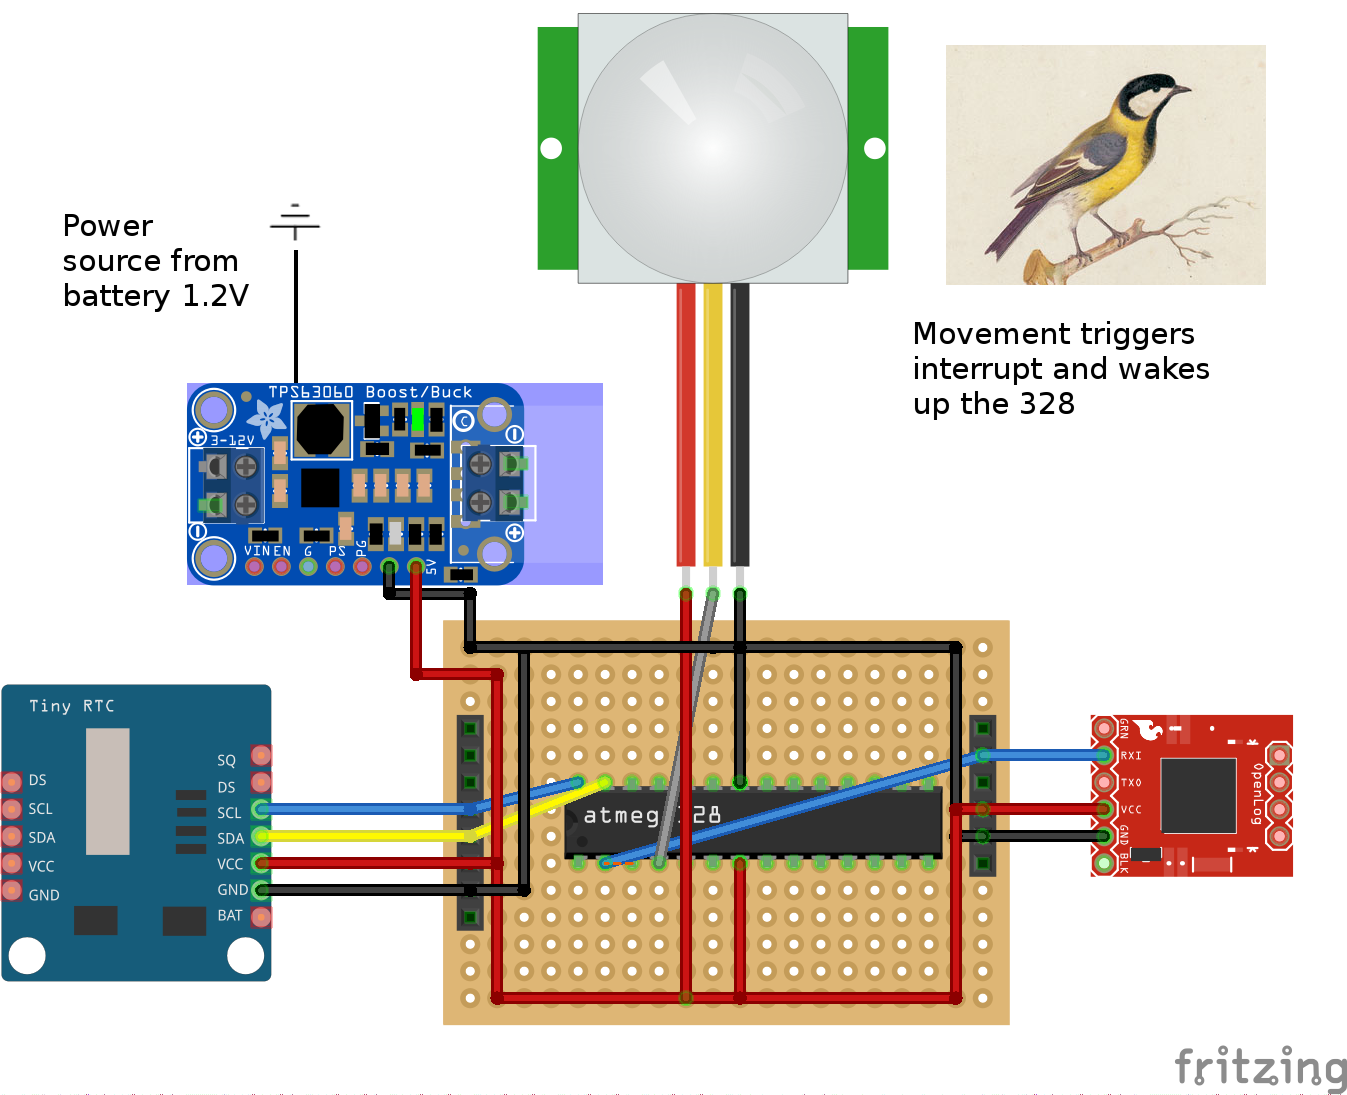
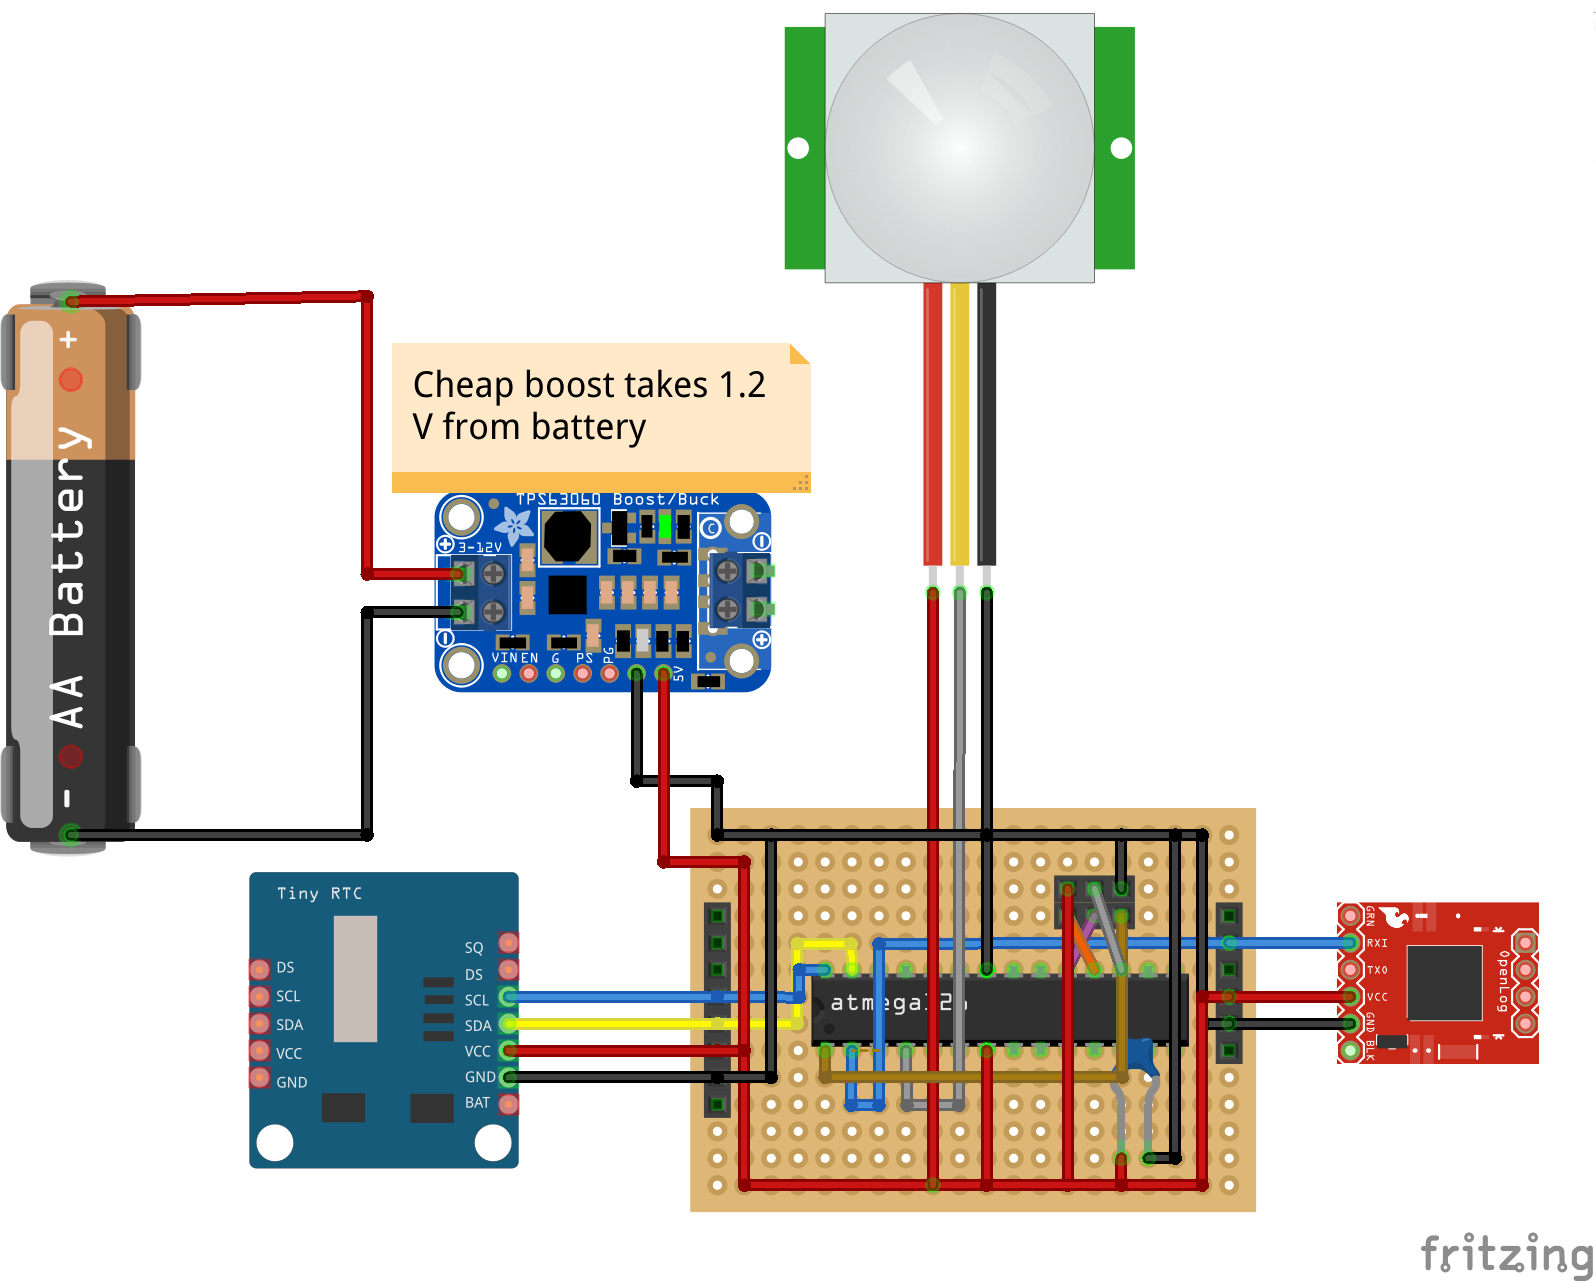
ICSP, decoupling and more parts

diff --git a/README.md b/README.md
@@ -5,12 +5,21 @@
 Writing a database over multi week time frames. Timestamped entries are written by wild bird's setting off an metal
 touch sensor.
 
-###Required hardware hacks
+###Hardware hacks
 
-####Connect to power source
+####Parasitic casing and power source
 
 Gut the solar LED lamp and solder a connector for easy access from the step up converter to 5V.
 As the sensors utilize 5V I keep the power on two separate rails on my perfboard.
+
+####Connector on base board
+
+The OpenLog and TinyRTC modules are plugged directly from their female header into a male socket. This puts stability
+and reduces cable clutter in the case.
+
+####ICSP header
+
+Even the small space on the board leaves some place for a 6 pin ICSP connector for later reprogramming.
 
 ###Used hardware
 |Hardware|Note|Price|My Source|
@@ -20,6 +29,8 @@ As the sensors utilize 5V I keep the power on two separate rails on my perfboard
 |TinyRTC||$0.6|[Aliexpress](http://www.aliexpress.com/item/Free-shipping-20pcs-lot-The-Tiny-RTC-I2C-modules-24C32-memory-DS1307-clock-RTC-module-for/1876368739.html)|
 |Atmel 328P|using the bare chip allows us to utilze the full potential of the power saving|$2||
 |Solar lamp|a weather proof nice case and solar rechargable battery power supply|$3|[Aliexpress](http://www.aliexpress.com/item/New-Arrival-Solar-Power-Panel-6-LED-Light-Sensor-Waterproof-Outdoor-Fence-Garden-Pathway-Wall-Lamp/32456071230.html)|
+|5V voltage boost||$1||
+|100nf ceramic capacitor|For smoothing out the power spike during runtime|$0.1||
 
 Expect some soldering, reusing old cables and some connectors.
 
